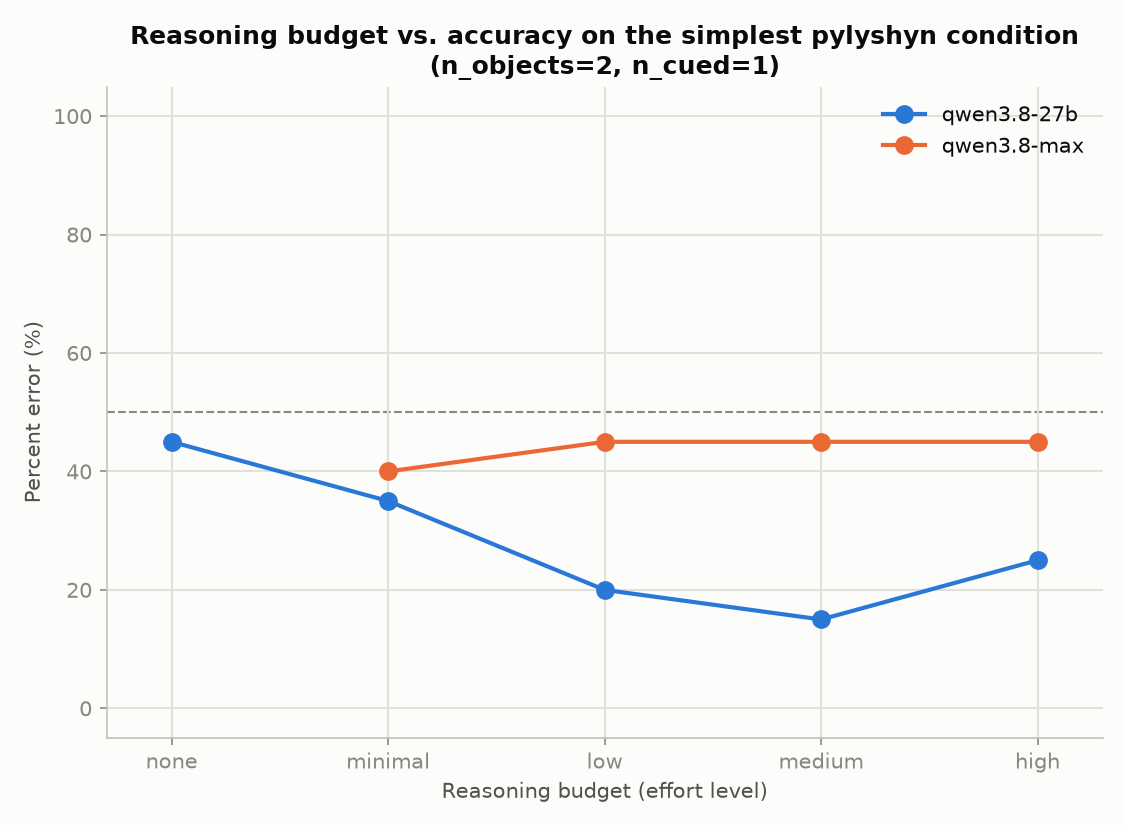
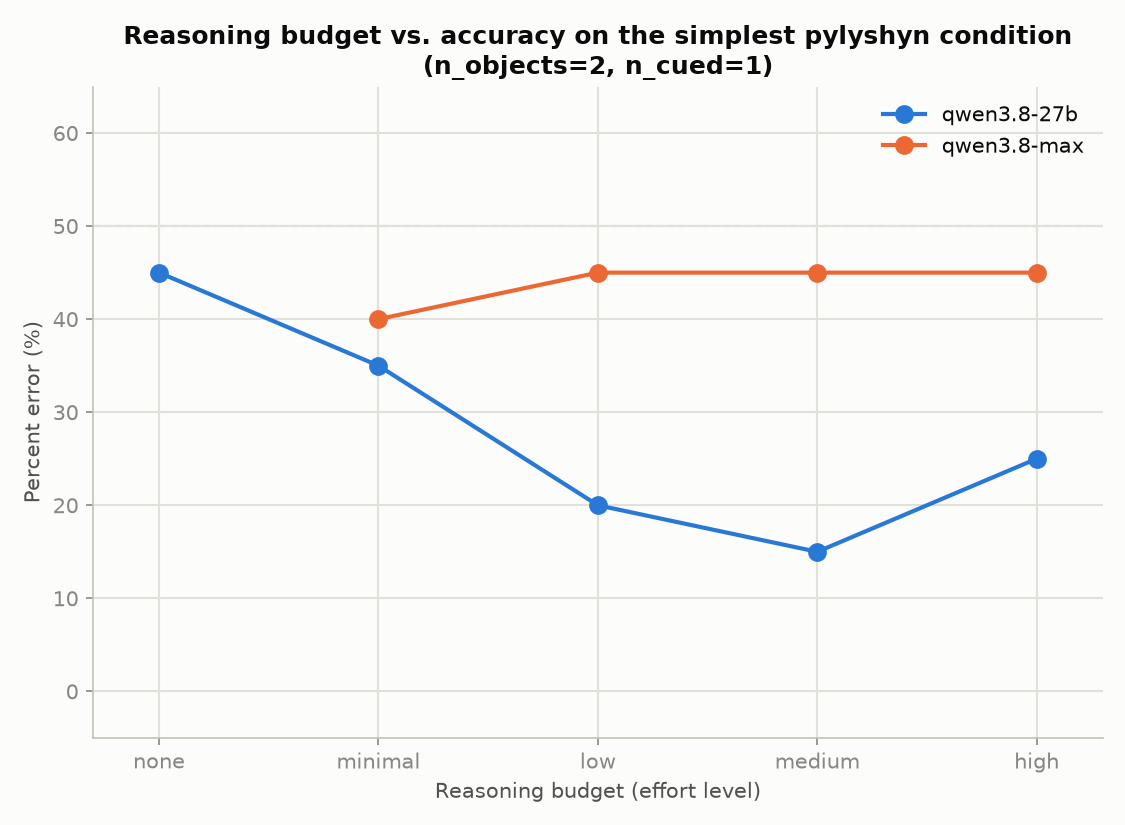
[update,figure] changed the y axis limits on reasoning budget plot

diff --git a/scripts/pylyshyn/plot_reasoning_summary.py b/scripts/pylyshyn/plot_reasoning_summary.py
@@ -77,7 +77,7 @@ def main():
     for spine in ("left", "bottom"):
         ax.spines[spine].set_color(BASELINE)
     ax.tick_params(colors=INK_MUTED)
-    ax.set_ylim(-5, 105)
+    ax.set_ylim(-5, 65)
     ax.axhline(50, color=INK_MUTED, linewidth=1, linestyle="--", zorder=1, label="_chance")
 
     for model, color in zip(models, SERIES_COLORS):
